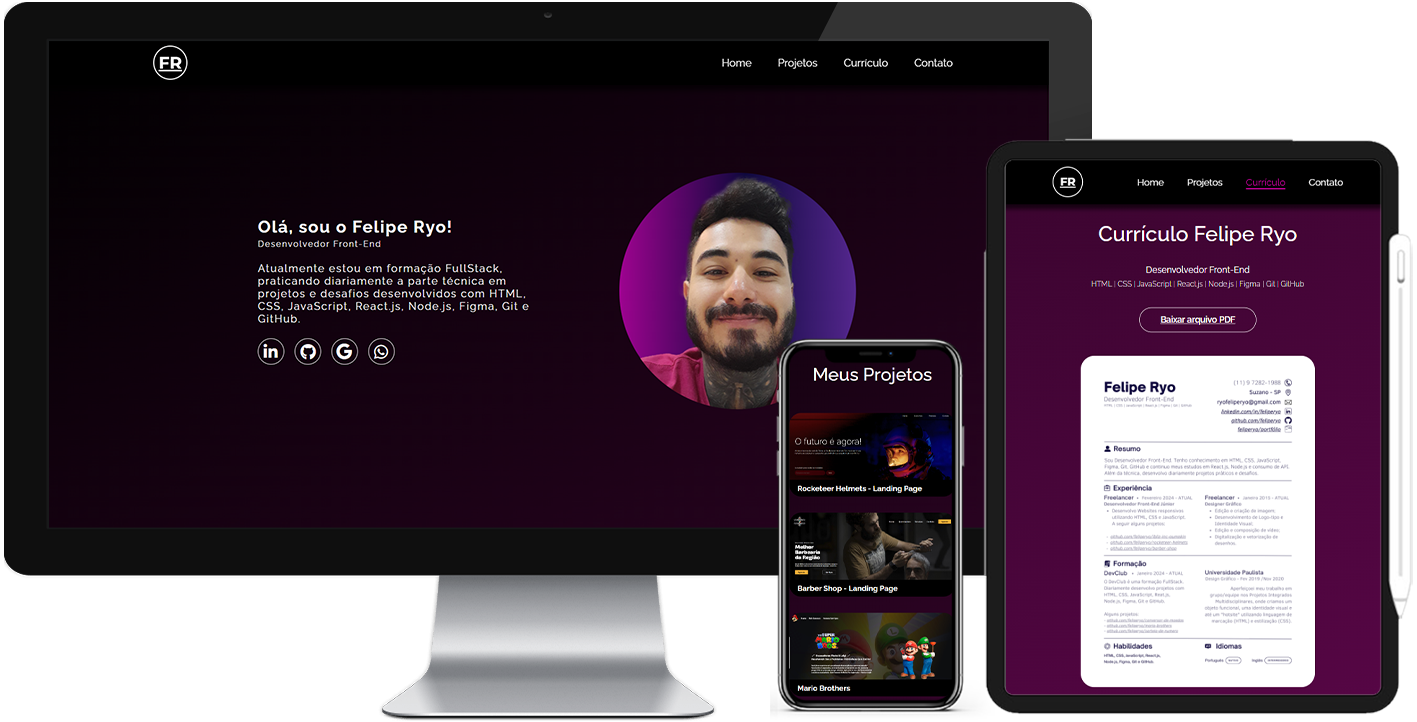
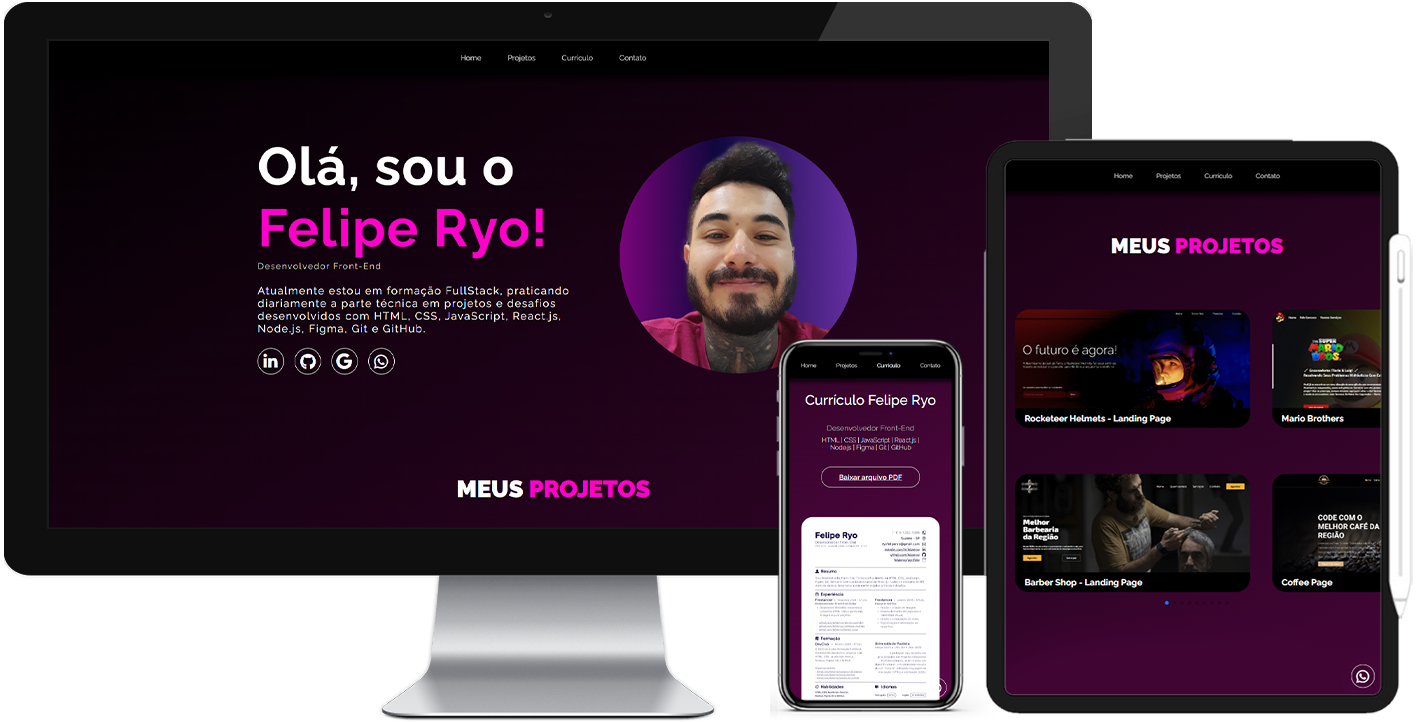
merge

diff --git a/index.html b/index.html
@@ -82,11 +82,12 @@
                 <a class="a-projects">Completos</a>
                 <a class="a-projects">Landing Pages</a>
                 <a class="a-projects">Jogos/Interações</a>
-            </nav>
+            </nav> -->
 
             <div class="container-projects"></div>
 
             <swiper-container class="mySwiper" pagination="true" pagination-clickable="true" slides-per-view="3.35"
+                grid-rows="1" grab-cursor="true">
                 grid-rows="1" grab-cursor="true">
 
                 <swiper-slide></swiper-slide>
@@ -106,7 +107,8 @@
             </div>
 
             <div class="container-curriculo">
-                <img class="curriculo-img" src="./assets/curriculo/curriculo-img.png" alt="Currículo Felipe Ryo" />
+                <a href="./assets/curriculo/Felipe Ryo.pdf" target="_blank"><img class="curriculo-img"
+                        src="./assets/curriculo/curriculo-img.png" alt="Currículo Felipe Ryo" /></a>
             </div>
         </section>
 
@@ -147,7 +149,7 @@
         </section>
 
         <div class="whatsapp">
-            <a href="http://wa.me/551172821988">
+            <a href="http://wa.me/551172821988" target="_blank">
                 <i class="fab fa-whatsapp"></i>
             </a>
         </div>

diff --git a/style.css b/style.css
@@ -298,9 +298,26 @@ swiper-slide {
     opacity: 0.5;
 }
 
+.container-curriculo {
+    overflow: hidden;
+    border-radius: 30px;
+}
+
+.container-curriculo:hover {
+    box-shadow: 0 0 8px #e6dd96;
+    border: solid 1px #ffffff;
+}
+
 .curriculo-img {
     width: 500px;
     border-radius: 30px;
+    -webkit-transition: -webkit-transform .5s ease;
+    transition: transform .5s ease;
+}
+
+.curriculo-img:hover {
+    -webkit-transform: scale(1.1);
+    transform: scale(1.1);
 }
 
 .footer {
@@ -372,6 +389,16 @@ swiper-slide {
     }
 }
 
+@media screen and (max-width: 1600px) {
+    .home h1 {
+        font-size: 80px;
+    }
+
+    .p-infos {
+        font-size: 16px;
+    }
+}
+
 @media screen and (max-width: 1030px) {
     .home {
         width: 80%;
@@ -407,6 +434,11 @@ swiper-slide {
 }
 
 @media screen and (max-width: 500px) {
+
+    header {
+        padding: 25px 0px;
+    }
+
     .home {
         width: 90%;
         min-height: 75vh;
@@ -438,6 +470,7 @@ swiper-slide {
 
     .title {
         margin-top: 25px;
+        font-size: 35px;
     }
 
     swiper-container {
